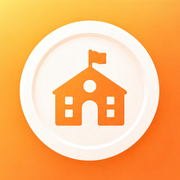
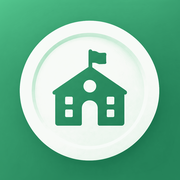
Ikona v zelené paletě appky (web, iOS, hodinky, úvodní obrazovka)

diff --git a/sw.js b/sw.js
@@ -1,6 +1,6 @@
 /* Network-first pro vlastní soubory: online rodič vidí vždy čerstvý
    jídelníček, offline se servíruje poslední uložená verze. */
-const CACHE = "dubec-na-taliri-v3";
+const CACHE = "dubec-na-taliri-v4";
 const ASSETS = [
   "./", "./index.html", "./styles.css", "./app.js", "./data.js",
   "./manifest.webmanifest", "./assets/icon.png",

diff --git a/tools/recolor-icon.py b/tools/recolor-icon.py
@@ -1,0 +1,43 @@
+#!/usr/bin/env python3
+"""Přebarví hlavní ikonu (oranžová) do zelené palety appky a vygeneruje všechny velikosti.
+
+    python3 tools/recolor-icon.py <zdrojová-1024.png>
+
+Paleta: tmavá #1E7A55 → světlá #4FCB8E (T.accent světlý/tmavý režim), talíř v barvě pozadí appky.
+"""
+import sys
+from pathlib import Path
+from PIL import Image
+import colorsys
+
+DARK  = (0x14, 0x6B, 0x47)
+LIGHT = (0x5F, 0xD6, 0x9B)
+MINT  = (246, 250, 247)    # T.bg světlý
+
+def lerp(a, b, t): return tuple(a[i] + (b[i] - a[i]) * t for i in range(3))
+
+def recolor(src: Image.Image) -> Image.Image:
+    im = src.convert("RGB"); px = im.load(); w, h = im.size
+    out = Image.new("RGB", im.size); op = out.load()
+    for y in range(h):
+        for x in range(w):
+            r, g, b = px[x, y]
+            hh, s, v = colorsys.rgb_to_hsv(r / 255, g / 255, b / 255)
+            a = min(1.0, max(0.0, (s - 0.05) / 0.45))          # kolik je pixel „barva“ (pozadí/dům) vs. talíř
+            lum = 0.299 * r + 0.587 * g + 0.114 * b
+            t = min(1.0, max(0.0, 1 - (lum - 120) / 120))        # žlutá (světlá) → světlá zelená, oranžová → tmavá
+            green = lerp(LIGHT, DARK, t ** 0.9)
+            plate = lerp((r, g, b), MINT, 0.85)                  # talíř: jemný stín zůstane, tón do mátové
+            op[x, y] = tuple(int(round(plate[i] * (1 - a) + green[i] * a)) for i in range(3))
+    return out
+
+if __name__ == "__main__":
+    src = Image.open(sys.argv[1]); big = recolor(src)
+    root = Path(__file__).resolve().parent.parent
+    big.save(root / "mobile/native/SkolaNaTaliri/Assets.xcassets/AppIcon.appiconset/icon-1024.png")
+    big.save(root / "mobile/native/Watch/Assets.xcassets/AppIcon.appiconset/icon-1024.png")
+    big.save(root / "mobile/ios-wrapper/ios/App/App/Assets.xcassets/AppIcon.appiconset/AppIcon-512@2x.png")
+    for name, size in [("icon.png", 512), ("icon-512.png", 512), ("icon-192.png", 192), ("icon-180.png", 180)]:
+        big.resize((size, size), Image.LANCZOS).save(root / "assets" / name)
+    big.resize((512, 512), Image.LANCZOS).save(root / "mobile/native/SkolaNaTaliri/Assets.xcassets/SplashIcon.imageset/splash.png")
+    print("hotovo")
